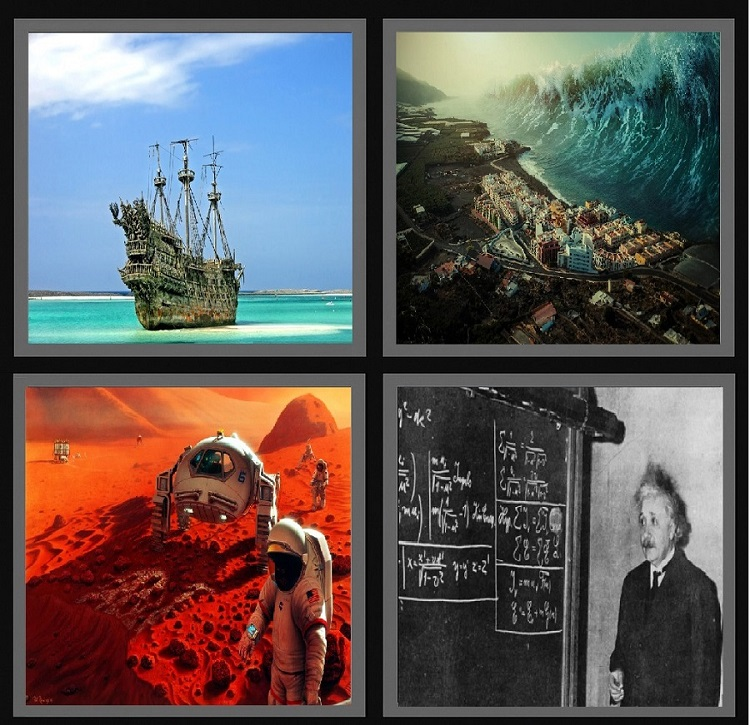
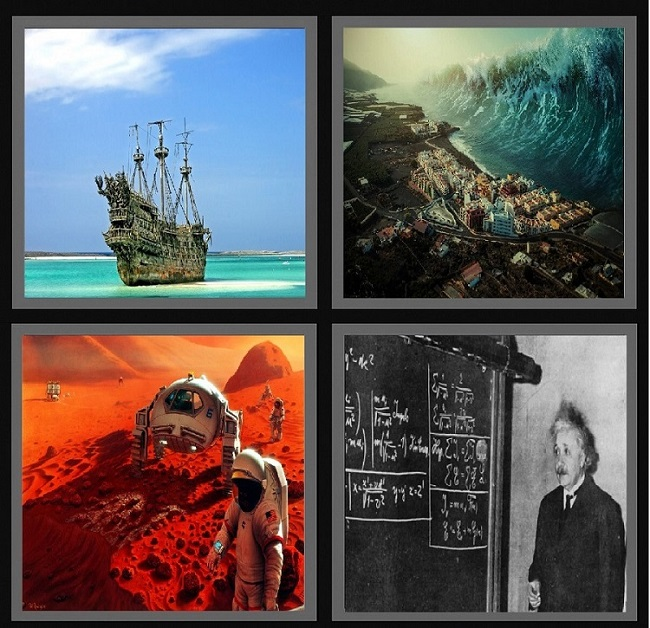
Add files via upload

Changed region(s): [[0.2154, 0.3328, 0.2462, 0.3631]]

diff --git a/index.html b/index.html
@@ -32,21 +32,12 @@
         .gen-movie-contain {
             position: relative;
         }
-.gen-movie-img {
-    width: 100%;
-    height: 292px;   /* kutunun yüksekliği sabit */
-    background-color: #000;  /* kenar boşlukları siyah görünür */
-    display: flex;
-    justify-content: center;
-    align-items: center;
-}
-
-.gen-movie-img img {
-    max-width: 100%;
-    max-height: 100%;
-    object-fit: contain;   /* taşmadan kutuya sığ */
-    border-radius: 8px;
-}
+        .gen-movie-img img {
+            width: 100%;
+            height: 292px;
+            object-fit: cover;
+            border-radius: 8px;
+        }
         .gen-movie-action {
             position: absolute;
             top: 50%;
